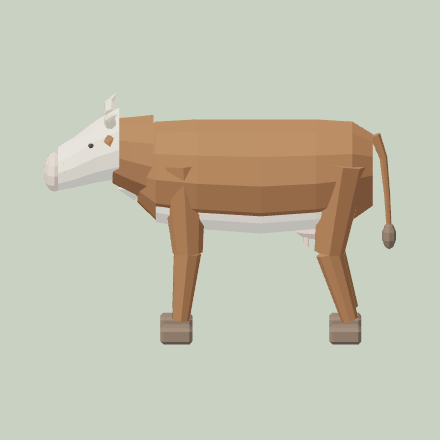
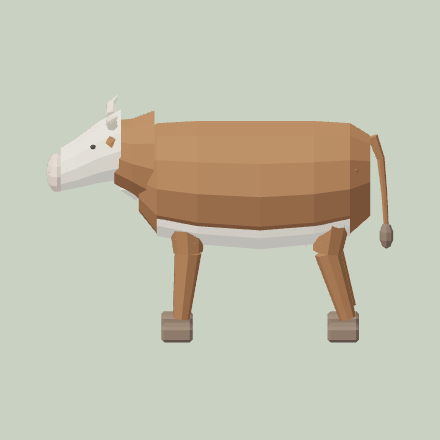
La vaca, más gorda
COW_GIRTH ensancha y ahonda el tronco con el lomo donde estaba, como pidió
Vera. Sigue sin publicar.

Claude-Session: https://claude.ai/code/session_01XEUqMLS5ySzN2EeA2LcX3M

diff --git a/deliverables/marked-models-trial/build-models.py b/deliverables/marked-models-trial/build-models.py
@@ -477,6 +477,8 @@ def pig():
     tube('Curly_Tail',[(.203,0,.200),(.222,0,.212),(.234,.008,.230),(.228,.018,.244),(.216,.014,.240),(.214,.004,.228)],[.008,.007,.006,.005,.004,.002],'skin',tail,7)
     merge_parts(); save('pig')
 
+COW_GIRTH=(1.22,1.14)   # ancho y hondo del tronco sobre la primera versión
+
 def cow():
     # 29 sep 2026. La vaca de G-23 era de cajas, como la gallina; con el cerdo
     # facetado el corral quedaba en dos estilos. Facetada, sobre la estructura
@@ -486,13 +488,15 @@ def cow():
     reset(); mat('coat','58301B'); mat('white','E6DCC6'); mat('muzzle','C9A99A'); mat('hoof','3C3029'); mat('udder','D8A89A')
     body=empty('body',(0,0,.26),ROOT)
     barrel=[(-.270,.370,.050,.070),(-.230,.370,.100,.110),(-.140,.365,.120,.120),(.000,.360,.125,.125),(.120,.365,.120,.120),(.200,.370,.100,.110),(.245,.372,.060,.080)]
+    # Más gorda (Vera): más ancha y más honda por abajo, con el lomo donde estaba.
+    barrel=[(x,z+rz-rz*COW_GIRTH[1],ry*COW_GIRTH[0],rz*COW_GIRTH[1]) for x,z,ry,rz in barrel]
     loft('Barrel',barrel,'coat',body,12)
     loft('Belly',[(x,z-rz*.38,ry*.86,rz*.66) for x,z,ry,rz in barrel[1:-1]],'white',body,12)
     ell('Udder',(.120,0,.245),(.090,.080,.055),'udder',body,10,5)
     for i,(dx,dy) in enumerate([(-.02,-.02),(-.02,.02),(.02,-.02),(.02,.02)]):
         tube('Teat_'+str(i),[(.12+dx,dy,.225),(.12+dx,dy,.205)],[.007,.005],'udder',body,6)
     neck=empty('neck',(-.25,0,.40),body)
-    loft('Neck',[(-.235,.395,.085,.100),(-.285,.405,.072,.085),(-.325,.415,.062,.072)],'coat',neck,12)
+    loft('Neck',[(-.235,.395,.085*COW_GIRTH[0],.100*COW_GIRTH[1]),(-.285,.405,.072*COW_GIRTH[0],.085),(-.325,.415,.062,.072)],'coat',neck,12)
     leaf('Dewlap',(-.255,0,.335),(-.315,0,.330),.070,.030,'white',neck)
     head=empty('head',(-.33,0,.42),neck)
     loft('Head',[(-.310,.432,.074,.080),(-.360,.414,.068,.070),(-.412,.388,.061,.056),(-.444,.375,.054,.049)],'white',head,12)

diff --git a/deliverables/marked-models-trial/README.md b/deliverables/marked-models-trial/README.md
@@ -90,7 +90,8 @@ de `rigid-clips.mjs … pig`.
 La de G-23 era de cajas, como la gallina, y con el cerdo facetado el corral
 quedaba en dos estilos. `cow()` en `build-models.py` la hace facetada sobre la
 estructura de la mula de Vera: barril hondo, cuello corto con papada, cuernos,
-pelo rojizo con la cara y el vientre blancos, y ubre. Mismo tamaño que la de
+pelo rojizo con la cara y el vientre blancos, y ubre. Vera la quiso más gorda: `COW_GIRTH`
+ensancha y ahonda el tronco (1,22 y 1,14) con el lomo donde estaba. Mismo tamaño que la de
 G-23 (0,75 celdas); marcha de `rigid-clips.mjs … cow`.
 
 - [cow.glb](cow.glb) · [perfil](cow-profile.png) · [tres cuartos](cow-three-quarter.png) ·
